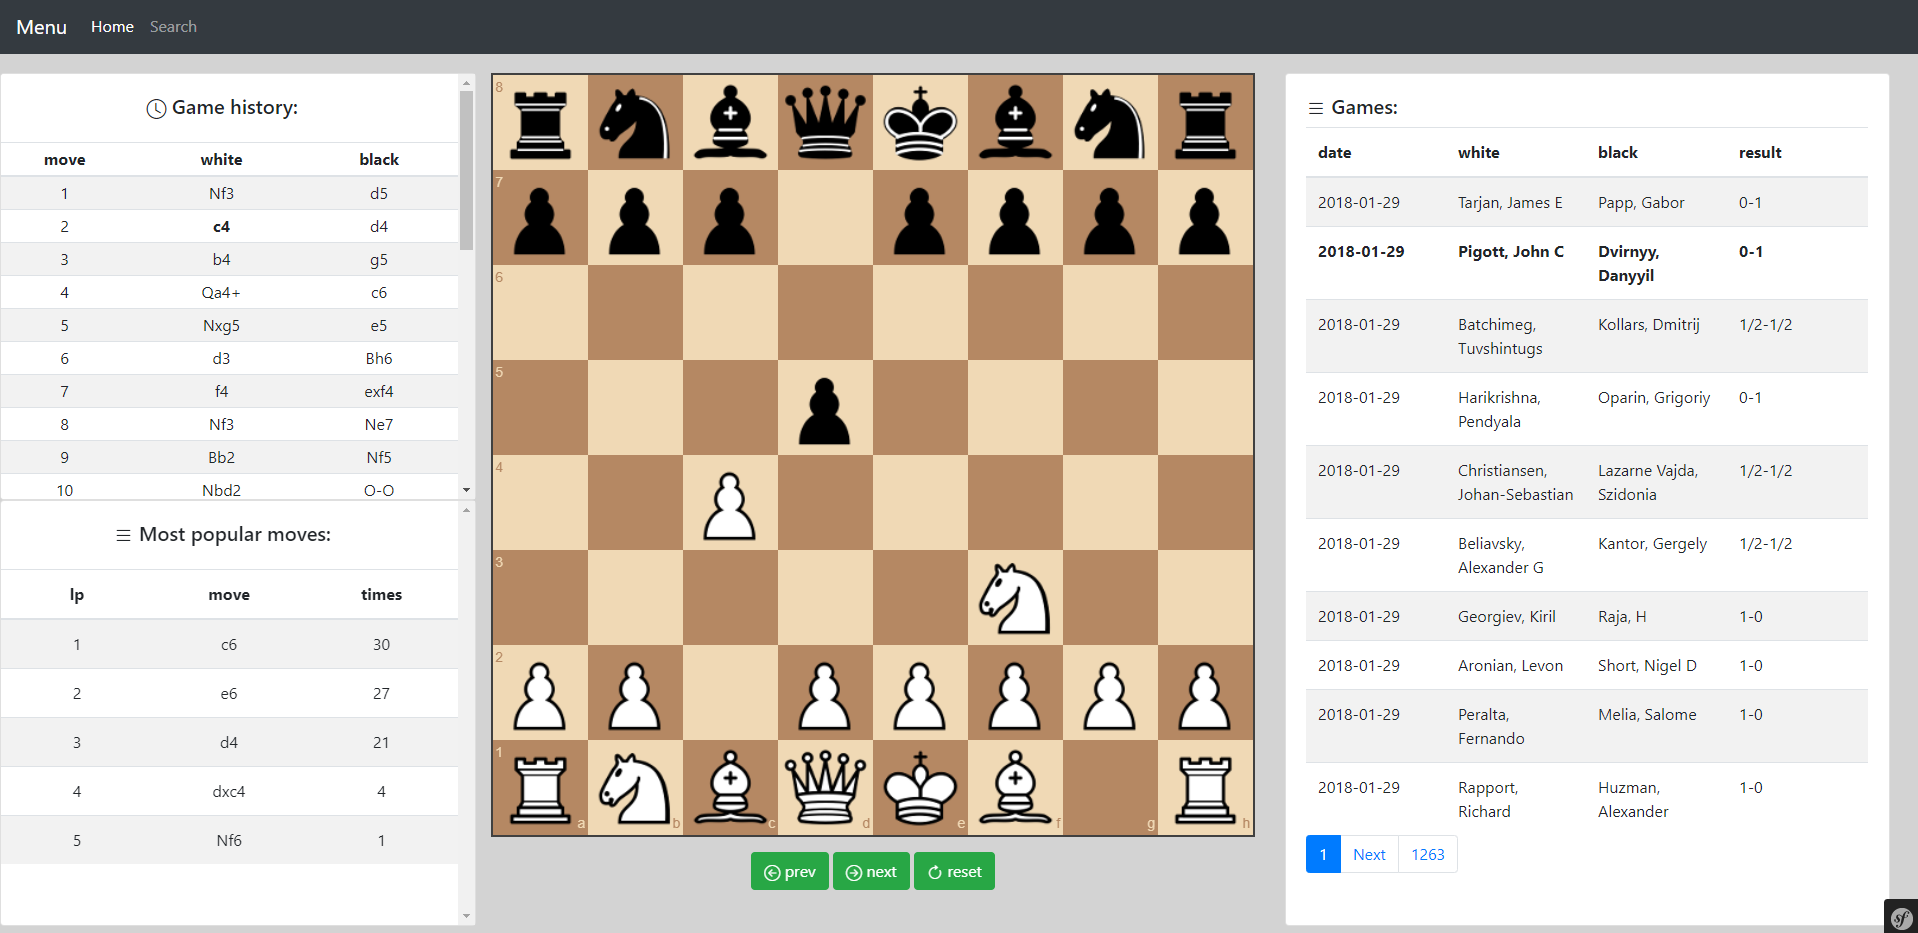
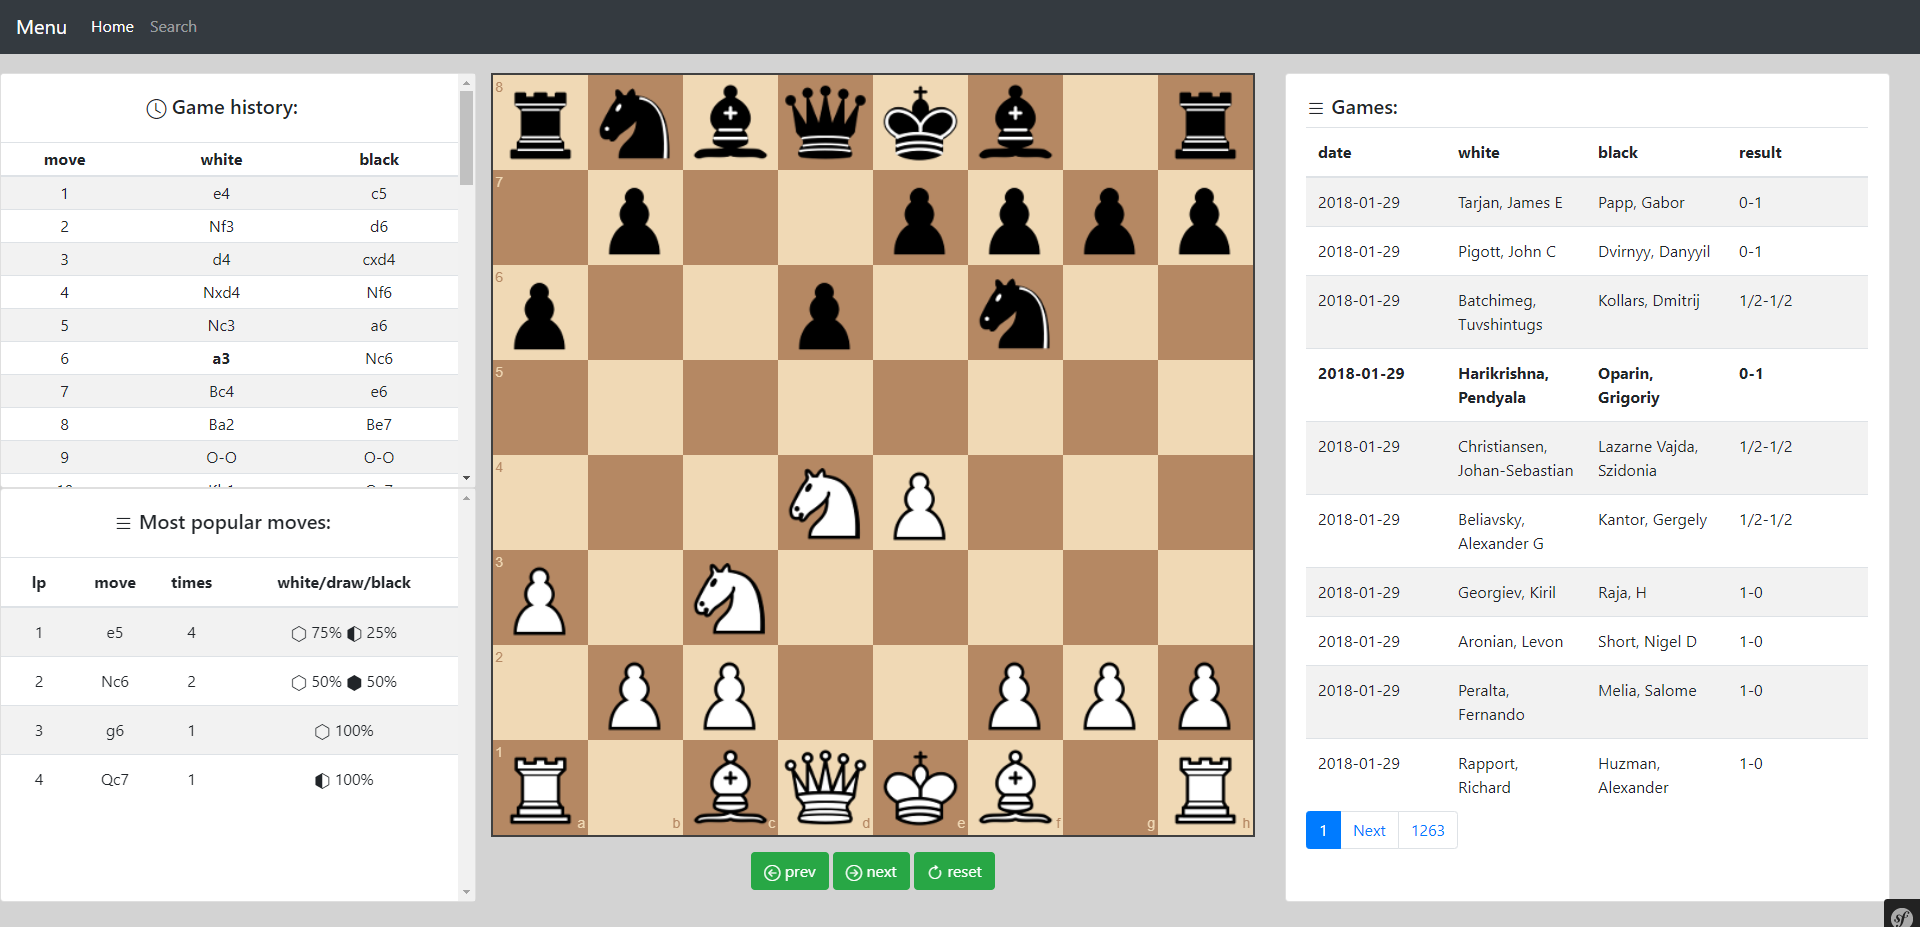
- added game result percentage to the popular moves section

diff --git a/assets/js/modules/ajaxCalls.js b/assets/js/modules/ajaxCalls.js
@@ -11,14 +11,18 @@ export function getMostPopularMovesInThePosition (fen = 'rnbqkbnr/pppppppp/8/8/8
         fenString:fen
     })
         .then(response => {
-            var respArray = [];
+            let respArray = [];
+            let data = response.data;
 
-            for (let i=0; i<response.data.length; i++) {
+            for (let key in data) {
                 let move = {};
-                move.moveSan = response.data[i].next_move_san;
-                move.moveCount = response.data[i].numer_of_moves;
+                move.moveSan = key;
+                move.moveCount = data[key].count_sum;
+                move.moveCountWhiteWin = data[key].count_white_win;
+                move.moveCountBlackWin = data[key].count_black_win;
+                move.moveCountDraw = data[key].count_draw;
 
-                respArray.push(move);
+                respArray.push(move)
             }
 
             store.state.possibleMoves = respArray;

diff --git a/assets/js/components/PossibleMoves.vue b/assets/js/components/PossibleMoves.vue
@@ -14,6 +14,7 @@
         <th>lp</th>
         <th>move</th>
         <th>times</th>
+        <th class="possible-move-game-result-header">white/draw/black</th>
       </tr>
       </thead>
       <tbody>
@@ -22,6 +23,11 @@
           <td>{{key + 1}}</td>
           <td>{{move.moveSan}}</td>
           <td>{{move.moveCount}}</td>
+          <td>
+            <span v-if="move.moveCountWhiteWin"><i class="bi bi-hexagon"></i> {{move.moveCountWhiteWin}}%</span>
+            <span v-if="move.moveCountDraw"><i class="bi bi-hexagon-half"></i> {{move.moveCountDraw}}%</span>
+            <span v-if="move.moveCountBlackWin"><i class="bi bi-hexagon-fill"></i> {{move.moveCountBlackWin}}%</span>
+          </td>
         </tr>
       </template>
       </tbody>

diff --git a/assets/js/components/GameHistory.vue b/assets/js/components/GameHistory.vue
@@ -68,8 +68,6 @@ export default {
 
         this.$store.dispatch('setGameHistory', gameHistoryMovesArray);
 
-        console.log(this.move_history);
-
         let gameHeaders = game.header();
         let gameResult = gameHeaders.Result;
         let turn = 1;

diff --git a/assets/styles/app.css b/assets/styles/app.css
@@ -48,3 +48,7 @@ body {
 .game-moves td {
     cursor:pointer;
 }
+
+.possible-move-game-result-header {
+    width: 50%;
+}

diff --git a/src/Service/MoveService.php b/src/Service/MoveService.php
@@ -2,6 +2,7 @@
 
 namespace App\Service;
 
+use App\Helper\MathHelper;
 use App\Repository\MoveRepository;
 
 class MoveService
@@ -10,10 +11,15 @@ class MoveService
      * @var MoveRepository
      */
     private $moveRepository;
+    /**
+     * @var MathHelper
+     */
+    private $mathHelper;
 
-    public function __construct(MoveRepository $moveRepository)
+    public function __construct(MoveRepository $moveRepository, MathHelper $mathHelper)
     {
         $this->moveRepository = $moveRepository;
+        $this->mathHelper = $mathHelper;
     }
 
     public function saveMove($move)
@@ -25,7 +31,63 @@ class MoveService
         $this->moveRepository->flush();
     }
 
+    public function transformMoveArray($moves) {
+        $arr = [];
+        foreach ($moves as $record) {
+            $next_move = $record['next_move_san'];
+            $move_count = $record['numer_of_moves'];
+            $game_result = $record['result'];
+
+            if (!isset($arr[$next_move]['count_sum'])) $arr[$next_move]['count_sum'] = 0;
+            $arr[$next_move]['count_sum']=$arr[$next_move]['count_sum']+$move_count;
+
+            if ($game_result == '1-0') {
+                if (!isset($arr[$next_move]['count_white_win'])) $arr[$next_move]['count_white_win'] = 0;
+                $arr[$next_move]['count_white_win']=$arr[$next_move]['count_white_win']+$move_count;
+            }
+            else if ($game_result == '0-1') {
+                if (!isset($arr[$next_move]['count_black_win'])) $arr[$next_move]['count_black_win'] = 0;
+
+                $arr[$next_move]['count_black_win']=$arr[$next_move]['count_black_win']+$move_count;
+            }
+            else if ($game_result == '1/2-1/2') {
+                if (!isset($arr[$next_move]['count_draw'])) $arr[$next_move]['count_draw'] = 0;
+
+                $arr[$next_move]['count_draw']=$arr[$next_move]['count_draw']+$move_count;
+            }
+        }
+
+        return $arr;
+    }
+
+    public function calculatePercentValues($moves) {
+        foreach ($moves as $key => $record) {
+            $count_sum = $record['count_sum'];
+
+            if (isset($moves[$key]['count_white_win'])) {
+                $count_white_win = $record['count_white_win'];
+                $moves[$key]['count_white_win'] = $this->mathHelper->calculatePercent($count_sum, $count_white_win);
+            }
+
+            if (isset($moves[$key]['count_black_win'])) {
+                $count_black_win = $record['count_black_win'];
+                $moves[$key]['count_black_win'] = $this->mathHelper->calculatePercent($count_sum, $count_black_win);
+            }
+
+            if (isset($moves[$key]['count_draw'])) {
+                $count_draw = $record['count_draw'];
+                $moves[$key]['count_draw'] = $this->mathHelper->calculatePercent($count_sum, $count_draw);
+            }
+        }
+
+        return $moves;
+    }
+
     public function getPopularMovesInThePosition($fen) {
-        return $this->moveRepository->countPopularMoves($fen);
+        $getMoves = $this->moveRepository->countPopularMoves($fen);
+        $getMoves = $this->transformMoveArray($getMoves);
+        $getMoves = $this->calculatePercentValues($getMoves);
+
+        return $getMoves;
     }
 }

diff --git a/src/Repository/MoveRepository.php b/src/Repository/MoveRepository.php
@@ -4,6 +4,7 @@ namespace App\Repository;
 
 use App\Entity\Move;
 use Doctrine\Bundle\DoctrineBundle\Repository\ServiceEntityRepository;
+use Doctrine\Common\Collections\ArrayCollection;
 use Doctrine\Persistence\ManagerRegistry;
 
 /**
@@ -40,9 +41,9 @@ class MoveRepository extends ServiceEntityRepository
         //start position
         if ($fen == 'rnbqkbnr/pppppppp/8/8/8/8/PPPPPPPP/RNBQKBNR w KQkq - 0 1') {
             $sql = "
-                SELECT COUNT(*) AS numer_of_moves, m1.move_san AS next_move_san FROM move m1
+                SELECT COUNT(*) AS numer_of_moves, m1.move_san AS next_move_san, game.result FROM move m1 LEFT JOIN game ON m1.game_fk_id=game.id
                 WHERE m1.move_number = 1
-                GROUP BY m1.move_san
+                GROUP BY m1.move_san, game.result
                 ORDER BY numer_of_moves DESC            
             ";
 
@@ -52,10 +53,10 @@ class MoveRepository extends ServiceEntityRepository
         else
         {
             $sql = "
-        SELECT COUNT(*) as numer_of_moves, m1.move_san AS first_move_san, m2.move_san AS next_move_san FROM move m1, move m2
+        SELECT COUNT(*) as numer_of_moves, m1.move_san AS first_move_san, m2.move_san AS next_move_san, game.result FROM move m1, move m2 LEFT JOIN game ON m2.game_fk_id=game.id
         WHERE m1.fen = :fen
         AND m1.next_move_id=m2.id
-        GROUP BY m2.move_san
+        GROUP BY m2.move_san, game.result
         ORDER BY numer_of_moves DESC
         ";
 
@@ -69,33 +70,4 @@ class MoveRepository extends ServiceEntityRepository
 
         return $result;
     }
-
-    // /**
-    //  * @return Move[] Returns an array of Move objects
-    //  */
-    /*
-    public function findByExampleField($value)
-    {
-        return $this->createQueryBuilder('m')
-            ->andWhere('m.exampleField = :val')
-            ->setParameter('val', $value)
-            ->orderBy('m.id', 'ASC')
-            ->setMaxResults(10)
-            ->getQuery()
-            ->getResult()
-        ;
-    }
-    */
-
-    /*
-    public function findOneBySomeField($value): ?Move
-    {
-        return $this->createQueryBuilder('m')
-            ->andWhere('m.exampleField = :val')
-            ->setParameter('val', $value)
-            ->getQuery()
-            ->getOneOrNullResult()
-        ;
-    }
-    */
 }

diff --git a/src/Helper/MathHelper.php b/src/Helper/MathHelper.php
@@ -1,0 +1,14 @@
+<?php
+
+
+namespace App\Helper;
+
+
+class MathHelper
+{
+    public function calculatePercent($total, $partial) {
+        $percent = ($partial / $total) * 100;
+
+        return number_format($percent);
+    }
+}
